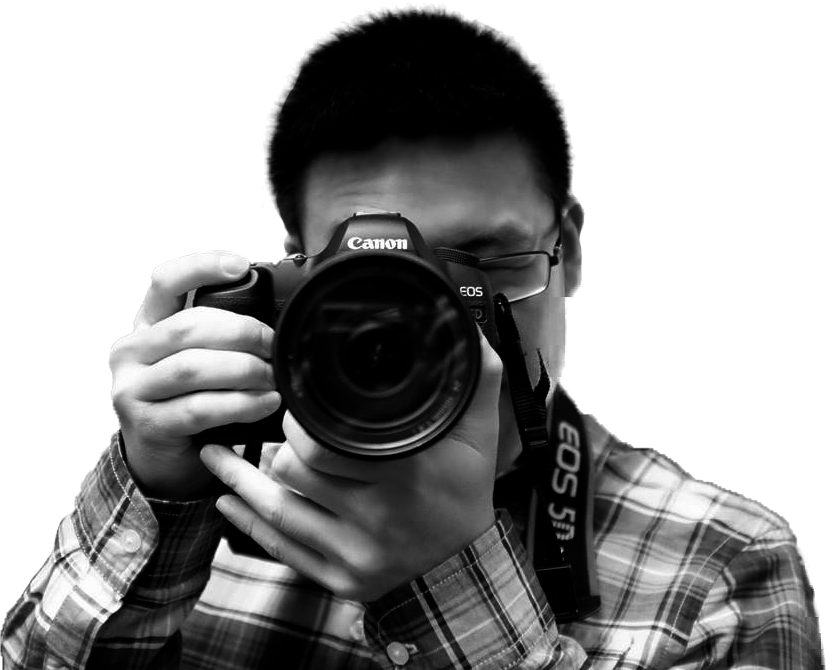
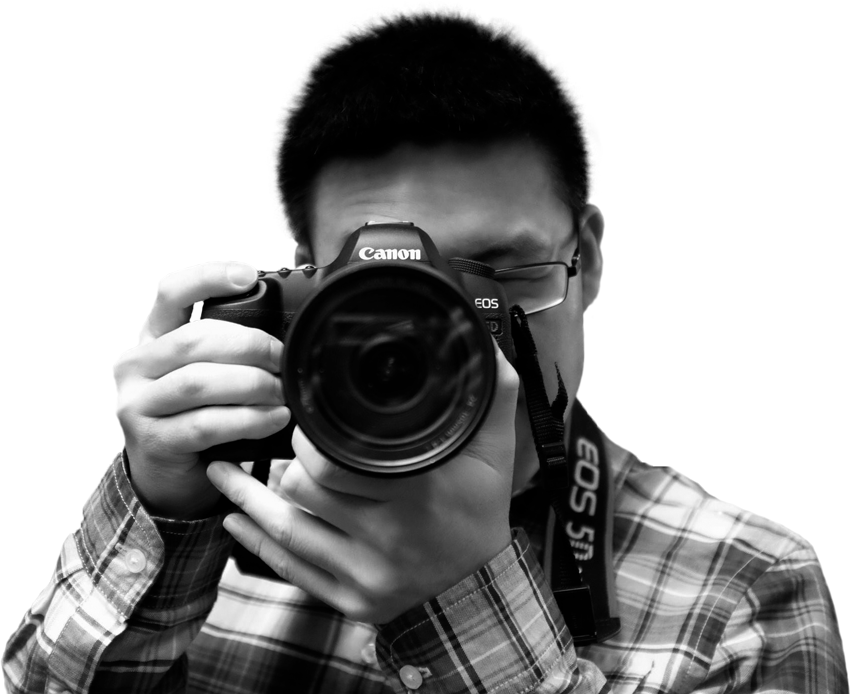
Img Changes

diff --git a/projects/m3evo.html b/projects/m3evo.html
@@ -94,7 +94,7 @@
 
         <div class="casestudy">
           <div class="bigimage">
-            <img src="img/p4_big.jpg" alt="First Image" width="1200" height="600">
+            <img src="img/p4_big.png" alt="First Image" width="1200" height="600">
           </div> <!--Images Close-->
         <div class="casestudyscroll">
         <div class="casestudycontent hide">
@@ -123,7 +123,7 @@
 
 <p>I user tested the project with many people that were not in the target audience (non-car people) to determine the success of the concept. Most users were able to understand the basic character of the cars, but some icons were more effective than others.</p>
 <br>
-<a href="img/BMW_M3_Evolution.jpg">Click here to view the full infographic.</a>
+<a href="img/BMW_M3_Evolution.png">Click here to view the full infographic.</a>
         </div> <!--casestudycontent close-->
       </div> <!--Scroll div close-->
 
@@ -144,7 +144,7 @@
             </div>
         </div></a>
 
-        <a href="img/BMW_M3_Evolution.jpg"><div class="ic_container">
+        <a href="img/BMW_M3_Evolution.png"><div class="ic_container">
           <img src="img/p4_2.jpg" alt="Poster Top Half"/>
             <div class="overlay" style="display:none;"></div>
             <div class="ic_caption">
@@ -157,7 +157,7 @@
             </div>
         </div></a>
 
-        <a href="img/BMW_M3_Evolution.jpg"><div class="ic_container">
+        <a href="img/BMW_M3_Evolution.png"><div class="ic_container">
           <img src="img/p4_3.jpg" alt="Poster Bottom Half"/>
             <div class="overlay" style="display:none;"></div>
             <div class="ic_caption">

diff --git a/owl/owl.carousel.css b/owl/owl.carousel.css
@@ -74,9 +74,9 @@
 .owl-carousel .owl-stage-outer {
   position: relative;
   overflow: hidden;
-  -webkit-box-shadow: 5px 5px 26px -5px rgba(0,0,0,0.65);
-  -moz-box-shadow: 5px 5px 26px -5px rgba(0,0,0,0.65);
-  box-shadow: 5px 5px 26px -5px rgba(0,0,0,0.65);  /* fix for flashing background */
+  -webkit-box-shadow: 5px 5px 16px -5px rgba(0,0,0,0.65);
+  -moz-box-shadow: 5px 5px 16px -5px rgba(0,0,0,0.65);
+  box-shadow: 5px 5px 16px -5px rgba(0,0,0,0.65);  /* fix for flashing background */
   -webkit-transform: translate3d(0px, 0px, 0px);
 }
 .owl-carousel .owl-controls .owl-nav .owl-prev,

diff --git a/css/main.css b/css/main.css
@@ -125,7 +125,7 @@ p {
 
 .homeinfo{
   position:fixed;
-  bottom:40%;
+  bottom:45%;
   right: 100px;
 }
 
@@ -166,8 +166,7 @@ p {
   position:fixed;
   top:50%;
   left:50%;
-  margin-top: -50px;
-  margin-left: -80px;
+  transform:translate(-50%,-50%);
 }
 
 .loader img {
@@ -401,7 +400,6 @@ p {
 .workcarousel {
   position:relative;
   margin-top: 100px;
-  box-shadow: 0;
 }
 
 
@@ -619,7 +617,7 @@ margin-left: 125px;
   -moz-transition: all 1.5s ease;
   -o-transition: all 1.5s ease;
   transition: all 1.5s ease;
-  transition-delay: .75s;
+  transition-delay: .85s;
 }
 
 

diff --git a/index (FULL SITE ACCESS).html b/index (FULL SITE ACCESS).html
@@ -63,7 +63,7 @@
         </div>
 
         <div class="me">
-        <img src="projects/img/me.png" alt="Hello, It's Me" width="832" height="670">
+        <img src="projects/img/me.png" alt="Hello, It's Me" width="850" height="694">
         <a href="projects/" class="workhome">Work</a>
       </div>
 

diff --git a/index.html b/index.html
@@ -63,7 +63,7 @@
         </div>
 
         <div class="me">
-        <img src="projects/img/me.png" alt="Hello, It's Me" width="832" height="670">
+        <img src="projects/img/me.png" alt="Hello, It's Me" width="850" height="694">
         <a href="projects/" class="workhome">Work</a>
       </div>
 

diff --git a/js/main.js b/js/main.js
@@ -33,7 +33,7 @@ $('.bigimage').scroll(function(){
     $(".bigimage").addClass('hide');
   });
 
-$('.casestudy').click(function(){
+$('html').click(function(){
     $('#projectpage div').removeClass('hide');
     $(".bigimage").addClass('hide');
   });
